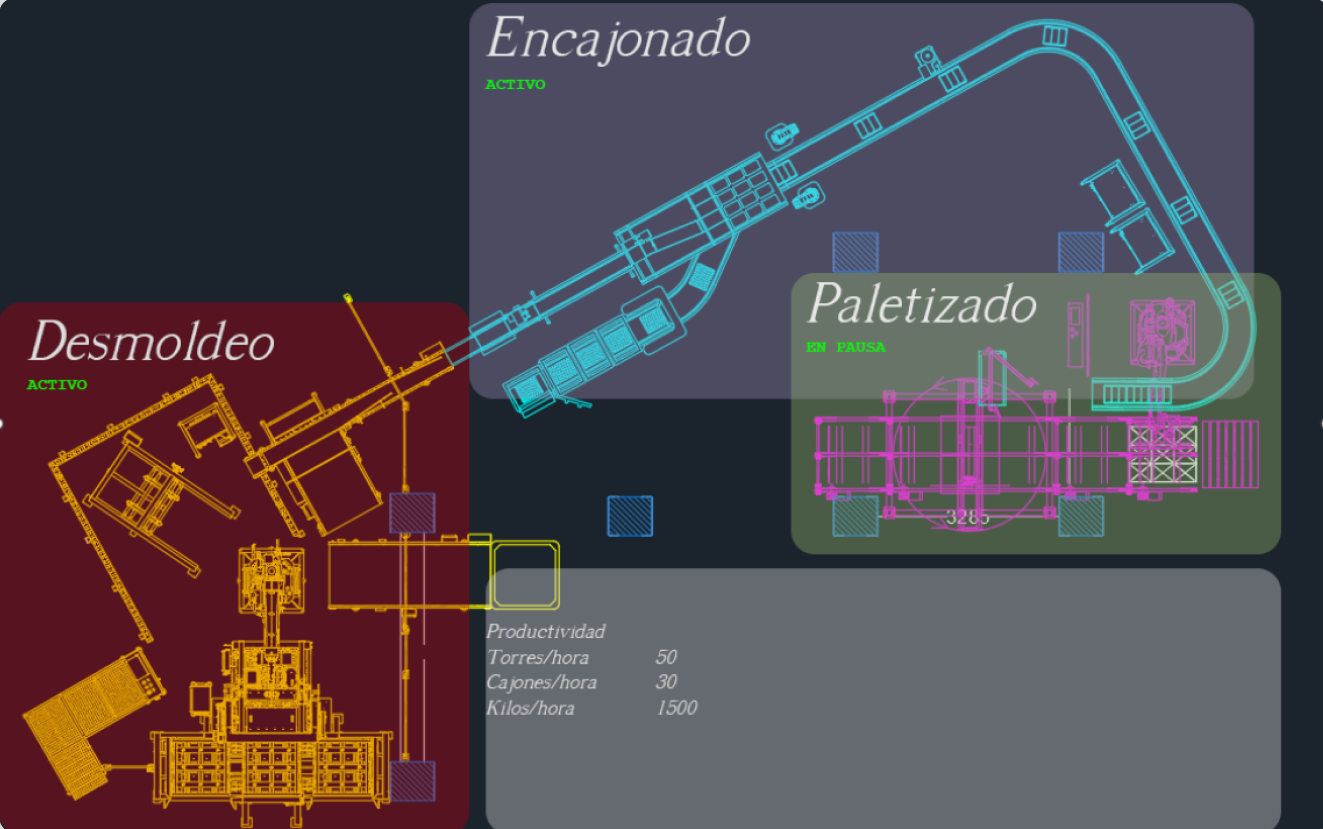
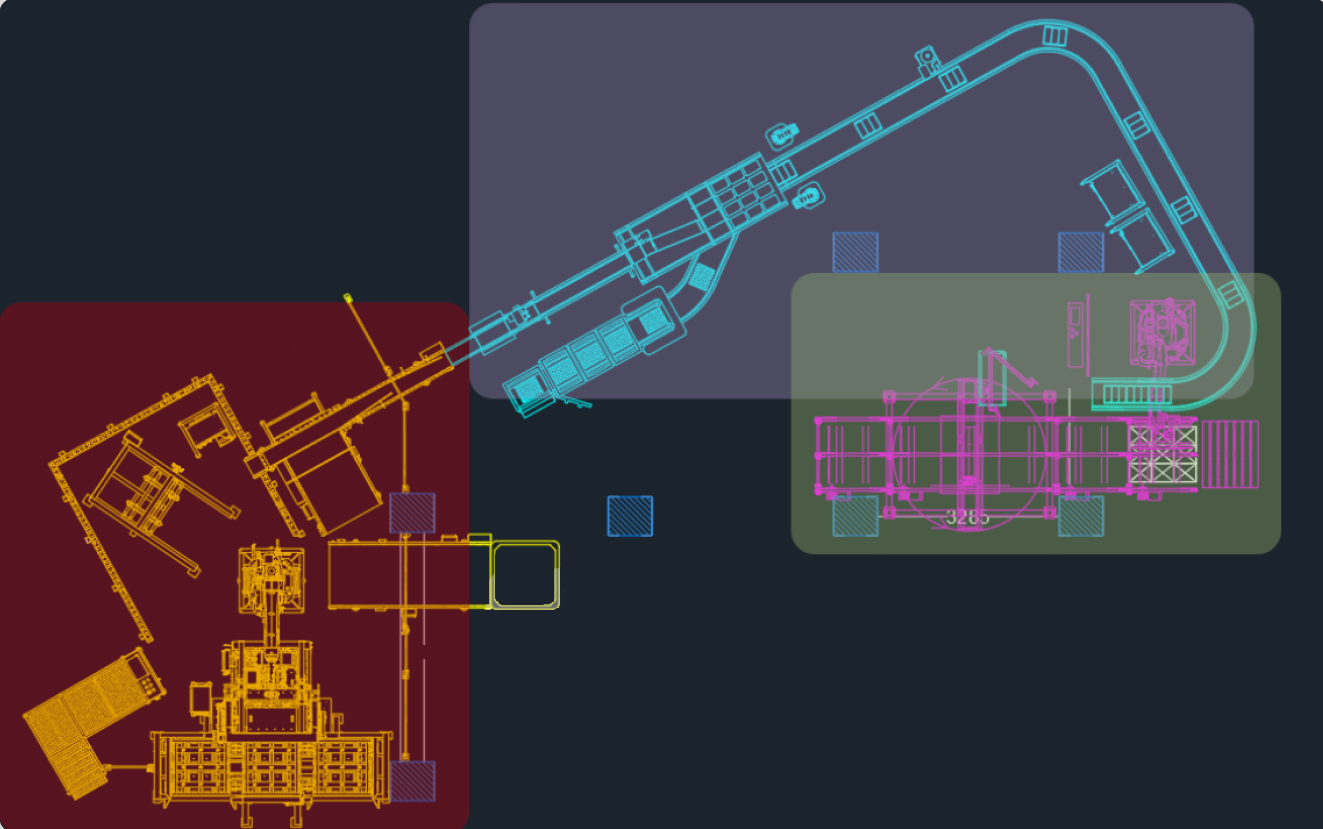
Solucion error WebSocket - Chequear error IMG Completo

diff --git a/src/app/components/ciclosrealizados/productosrealizados/grafico_ciclos/grafico_ciclos.jsx b/src/app/components/ciclosrealizados/productosrealizados/grafico_ciclos/grafico_ciclos.jsx
@@ -27,8 +27,24 @@ const Grafico1 = ({ productos }) => {
     useEffect(() => {
         if (!chartContainerRef.current) return;
 
+        const handleResize = () => {
+            if (chartRef.current) {
+                chartRef.current.resize(chartContainerRef.current.offsetWidth, 400);
+            }
+        };
+
+        window.addEventListener("resize", handleResize);
+
         if (chartRef.current) {
-            chartRef.current.remove();
+            // Elimina todas las series del gráfico antes de recrearlo
+            try {
+                seriesRef.current.forEach(({ lineSeries }) => {
+                    chartRef.current.removeSeries(lineSeries);
+                });
+                chartRef.current.remove();
+            } catch (error) {
+                console.error("Error removing series:", error);
+            }
         }
 
         const chart = createChart(chartContainerRef.current, {
@@ -51,11 +67,36 @@ const Grafico1 = ({ productos }) => {
         });
 
         chartRef.current = chart;
-
-        seriesRef.current.forEach((series) => series.destroy());
         seriesRef.current = [];
 
         let lastTimestamp = null;
+
+        const handleCrosshairMove = (param) => {
+            if (!param || !param.time) {
+                setTooltip({ display: false, x: 0, y: 0, values: [], date: "" });
+                return;
+            }
+
+            const time = new Date(param.time * 1000).toLocaleDateString();
+            const values = seriesRef.current.map(({ lineSeries, producto }) => {
+                const data = param.seriesData.get(lineSeries);
+                return {
+                    nombreProducto: producto.nombreProducto,
+                    color: productColors.current[producto.nombreProducto],
+                    value: data ? data.value : 0,
+                };
+            });
+
+            setTooltip({
+                display: true,
+                x: param.point.x,
+                y: param.point.y,
+                values,
+                date: time,
+            });
+        };
+
+        chart.subscribeCrosshairMove(handleCrosshairMove);
 
         productos.forEach((producto, index) => {
             const color = COLORS[index % COLORS.length];
@@ -78,32 +119,6 @@ const Grafico1 = ({ productos }) => {
 
             lineSeries.setData(seriesData);
             seriesRef.current.push({ lineSeries, producto });
-
-            // Suscribirse al movimiento del crosshair
-            chart.subscribeCrosshairMove((param) => {
-                if (!param || !param.time) {
-                    setTooltip({ display: false, x: 0, y: 0, values: [], date: "" });
-                    return;
-                }
-
-                const time = new Date(param.time * 1000).toLocaleDateString();
-                const values = seriesRef.current.map(({ lineSeries, producto }) => {
-                    const data = param.seriesData.get(lineSeries);
-                    return {
-                        nombreProducto: producto.nombreProducto,
-                        color: productColors.current[producto.nombreProducto],
-                        value: data ? data.value : 0,
-                    };
-                });
-
-                setTooltip({
-                    display: true,
-                    x: param.point.x,
-                    y: param.point.y,
-                    values,
-                    date: time,
-                });
-            });
         });
 
         // Ajustar el rango visible al último dato
@@ -114,15 +129,20 @@ const Grafico1 = ({ productos }) => {
             });
         }
 
-        const handleResize = () => {
-            chart.resize(chartContainerRef.current.offsetWidth, 400);
-        };
-
-        window.addEventListener("resize", handleResize);
-
         return () => {
             window.removeEventListener("resize", handleResize);
-            chart.remove();
+
+            if (chartRef.current) {
+                try {
+                    chart.unsubscribeCrosshairMove(handleCrosshairMove);
+                    seriesRef.current.forEach(({ lineSeries }) => {
+                        chartRef.current.removeSeries(lineSeries);
+                    });
+                    chartRef.current.remove();
+                } catch (error) {
+                    console.error("Error during cleanup:", error);
+                }
+            }
         };
     }, [productos]);
 

diff --git a/src/app/utils/useWebSocket.js b/src/app/utils/useWebSocket.js
@@ -1,15 +1,15 @@
 "use client"
-import { useEffect, useState } from "react";
+import { useEffect, useState, useRef } from "react";
 
 export default function useWebSocket(pollId) {
   const [data, setData] = useState(null); // Estado para los datos recibidos
   const [error, setError] = useState(null); // Estado para errores
   const [isConnected, setIsConnected] = useState(false); // Estado de conexión
+  const socketRef = useRef(null); // Referencia al WebSocket
 
   useEffect(() => {
-    const socket = new WebSocket(`ws://192.168.0.82:8000/ws/${pollId}`);
-
-    console.log(socket)
+    const socket = new WebSocket(`ws://192.168.0.165:8000/ws/${pollId}`);
+    socketRef.current = socket;
 
     // Evento: Conexión abierta
     socket.onopen = () => {
@@ -19,11 +19,11 @@ export default function useWebSocket(pollId) {
 
     // Evento: Mensaje recibido
     socket.onmessage = (event) => {
-        
+      if (socketRef.current !== socket || socket.readyState !== WebSocket.OPEN) {
+        return;
+      }
       try {
-        const message =  JSON.parse(event.data);
-        console.log("mesnaje",message);
-        
+        const message = JSON.parse(event.data);
         console.log("Mensaje recibido:", message);
         setData(message); // Actualiza el estado con los datos recibidos
       } catch (err) {
@@ -33,19 +33,28 @@ export default function useWebSocket(pollId) {
 
     // Evento: Error
     socket.onerror = (err) => {
+      if (socketRef.current !== socket || socket.readyState !== WebSocket.OPEN) {
+        return;
+      }
       console.error("Error en WebSocket:", err);
       setError(err);
     };
 
     // Evento: Conexión cerrada
     socket.onclose = () => {
+      if (socketRef.current !== socket) {
+        return;
+      }
       console.log("Conexión WebSocket cerrada");
       setIsConnected(false);
     };
 
     // Limpieza al desmontar el componente
     return () => {
-      socket.close();
+      if (socketRef.current === socket) {
+        socketRef.current = null;
+        socket.close();
+      }
     };
   }, [pollId]); // Se actualiza si cambia el pollId
 

diff --git a/src/app/components/layoutcompleto/LayoutCompleto.jsx b/src/app/components/layoutcompleto/LayoutCompleto.jsx
@@ -7,9 +7,9 @@ import style from './LayoutCompleto.module.css';
 import DatosDesmoldeo from "./datosdesmoldeo/datosdesmoldeo";
 import DatosEncajonado from "./datosencajonado/datosencajonado";
 import DatosPaletizado from "./datospaletizado/datospaletizado";
-import DatosEstadoDesmoldeo from "./datosdesmoldeo/datosestadodesmoldeo/datosestadodesmoldeo"
+import DatosEstadoDesmoldeo from "./datosdesmoldeo/datosestadodesmoldeo/datosestadodesmoldeo";
 import DatosEstadoEncajonado from "./datosencajonado/datosestadoencajonado/datosestadoencajonado.jsx";
-import DatosEstadoPaletizado from "./datospaletizado/datosestadopaletizado/datosestadopaletizado.jsx"
+import DatosEstadoPaletizado from "./datospaletizado/datosestadopaletizado/datosestadopaletizado.jsx";
 
 const LayoutCompleto = () => {
   const sections = [
@@ -17,8 +17,8 @@ const LayoutCompleto = () => {
       id: 1,
       name: "Desmoldeo",
       path: "/desmoldeo",
-      position: { top: "36.2%", left: "0.2%", width: "35.2%", height: "63%" },
-      styleClass: "secciondesbloqueda",
+      position: { top: "36.2%", left: "0%", width: "35.3%", height: "63.8%" },
+      styleClass: "secciondesbloqueada",
     },
     {
       id: 2,
@@ -71,7 +71,7 @@ const LayoutCompleto = () => {
         </Link>
       ))}
       <div
-        className={`${style.interactiveSection} ${style.secciondatos}`}
+        className={`${style.interactiveSection} ${style.secciondatos} ${style.noBoxShadow}`}
         style={sections[3].position}
       >
         <DatosDesmoldeo />
@@ -83,4 +83,3 @@ const LayoutCompleto = () => {
 };
 
 export default LayoutCompleto;
-

diff --git a/src/app/components/layoutcompleto/LayoutCompleto.module.css b/src/app/components/layoutcompleto/LayoutCompleto.module.css
@@ -8,6 +8,7 @@
   width: 100%;
   height: auto;
   border-radius: 15px;
+  z-index: -10;
 }
 
 .interactiveSection {
@@ -37,27 +38,23 @@
   transition: opacity 0.3s ease;
 }
 
-.interactiveSection:hover .tooltip {
-  opacity: 1;
-}
-
 .sectorContainer {
   text-align: center;
   margin-top: 50px;
 }
 
-.secciondesbloqueda {
-  border-radius: 15px;
+.secciondesbloqueada {
+  border-radius: 20px;
   background-color: transparent;
-  z-index: 1; /* Asegura que se quede sobre otros elementos */
+  z-index: 0; /* Asegura que se quede sobre otros elementos */
   border: 2px solid green;
 }
 
 .seccionbloqueada {
-  border-radius: 15px;
+  border-radius: 20px;
   background-color: gray;
   border: 1px solid rgb(0, 0, 0);
-  opacity: 0.6;
+  opacity: 0.5;
   z-index: 0; /* Asegura que se quede sobre otros elementos */
   pointer-events: none;
 }
@@ -68,7 +65,7 @@
 
 .secciondatos {
   border-radius: 15px;
-  background-color: #1b232c;
+  background-color: transparent;
   z-index: 10;
   padding: 20px;
   display: flex;
@@ -87,8 +84,11 @@
   pointer-events: none;
 }
 
-.DatosEstadoEncajonado {
-  position: absolute;
-  transition: all 0.3s ease;
-  background-color: transparent; /* Sin fondo */
+.noBoxShadow {
+  box-shadow: none !important;
+  cursor: default;
+}
+
+.noBoxShadow:hover {
+  background-color: transparent;
 }

diff --git a/src/app/components/layoutcompleto/datosdesmoldeo/datosdesmoldeo.jsx b/src/app/components/layoutcompleto/datosdesmoldeo/datosdesmoldeo.jsx
@@ -29,7 +29,7 @@ const DatosDesmoldeo = () => {
                 <ul className={style.datosTods}>
                     {datosTiempoReal.map(({ id, nombre, dato }) => (
                         <li key={id} className={EstadoDesmoldeo === 'activo' || EstadoDesmoldeo === 'pausa' ? cont.datosIndvRed : cont.datosIndvGray}>
-                            <a className={style.detallesDatos} href=''> {/* acá se va a incluir /encajonado/equipox. */}
+                            <a className={style.detallesDatos} href='/desmoldeo/equipox'>
                                 {EstadoDesmoldeo === 'activo' || EstadoDesmoldeo === 'pausa' ? (
                                     <div className={style.contenedorActivo}>
                                         <h3 className={style.h3}>{nombre}</h3>

diff --git a/src/app/components/layoutcompleto/datosencajonado/datosestadoencajonado/datosestadoencajonado.jsx b/src/app/components/layoutcompleto/datosencajonado/datosestadoencajonado/datosestadoencajonado.jsx
@@ -8,7 +8,7 @@ const DatosEstadoEncajonado = () => {
     const { data, error, isConnected } = useWebSocket(pollId);
 
     const {
-        EstadoEncajonado = 'activo',  // Valor por defecto "inactivo" si es null
+        EstadoEncajonado = 'inactivo',  // Valor por defecto "inactivo" si es null
         TiempoTransEncajonado = '00:00hs',  // Valor por defecto "00:00hs" si es null
     } = data || {};  // Si data es null, evita un error de desestructuración
 

diff --git a/src/app/components/layoutcompleto/datospaletizado/datosestadopaletizado/datosestadopaletizado.jsx b/src/app/components/layoutcompleto/datospaletizado/datosestadopaletizado/datosestadopaletizado.jsx
@@ -8,7 +8,7 @@ const DatosEstadoPaletizado = () => {
     const { data, error, isConnected } = useWebSocket(pollId);
 
     const {
-        EstadoPaletizado = 'activo',  // Valor por defecto "inactivo" si es null
+        EstadoPaletizado = 'inactivo',  // Valor por defecto "inactivo" si es null
         TiempoTransPaletizado = '00:00hs',  // Valor por defecto "00:00hs" si es null
     } = data || {};  // Si data es null, evita un error de desestructuración
 

diff --git a/src/app/components/layoutcompleto/datospaletizado/datospaletizado.jsx b/src/app/components/layoutcompleto/datospaletizado/datospaletizado.jsx
@@ -15,7 +15,7 @@ const DatosPaletizado = () => {
         // EstadoPaletizado, //
     } = data || {};  // Si data es null, evita un error de desestructuración
 
-    const EstadoPaletizado = "activo";
+    const EstadoPaletizado = "inactivo";
 
     const datosTiempoReal = [
         { id: 1, nombre: 'Paletizado - Dato N°1', dato: PalVariableNN !== undefined && PalVariableNN !== null ? PalVariableNN : '0' },

diff --git a/src/app/components/layoutcompleto/datosencajonado/datosencajonado.jsx b/src/app/components/layoutcompleto/datosencajonado/datosencajonado.jsx
@@ -15,7 +15,7 @@ const DatosEncajonado = () => {
         //EstadoEncajonado, //
     } = data || {};  // Si data es null, evita un error de desestructuración
 
-    const EstadoEncajonado = "activo";
+    const EstadoEncajonado = "inactivo";
 
     const datosTiempoReal = [
         { id: 1, nombre: 'Encajonado - Dato N°1', dato: EncVariableNN !== undefined && EncVariableNN !== null ? EncVariableNN : '0' },

diff --git a/src/app/components/layoutcompleto/datosdesmoldeo/datosestadodesmoldeo/datosestadodesmoldeo.module.css b/src/app/components/layoutcompleto/datosdesmoldeo/datosestadodesmoldeo/datosestadodesmoldeo.module.css
@@ -1,5 +1,5 @@
 .contenedorDatos {
-    margin: -5 0 -4 5;
+    margin: 0 0 -4 10;;
 }
 
 .estadoActivo {

diff --git a/src/app/components/layoutcompleto/datosencajonado/datosestadoencajonado/datosestadoencajonado.module.css b/src/app/components/layoutcompleto/datosencajonado/datosestadoencajonado/datosestadoencajonado.module.css
@@ -1,5 +1,5 @@
 .contenedorDatos {
-    margin: -5 0 -4 5;
+    margin: 0 0 -4 10;
 }
 
 .estadoActivo {

diff --git a/src/app/components/layoutcompleto/datospaletizado/datosestadopaletizado/datosestadopaletizado.module.css b/src/app/components/layoutcompleto/datospaletizado/datosestadopaletizado/datosestadopaletizado.module.css
@@ -1,5 +1,5 @@
 .contenedorDatos {
-    margin: -5 0 -4 5;
+    margin: 0 0 -4 10;
 }
 
 .estadoActivo {
